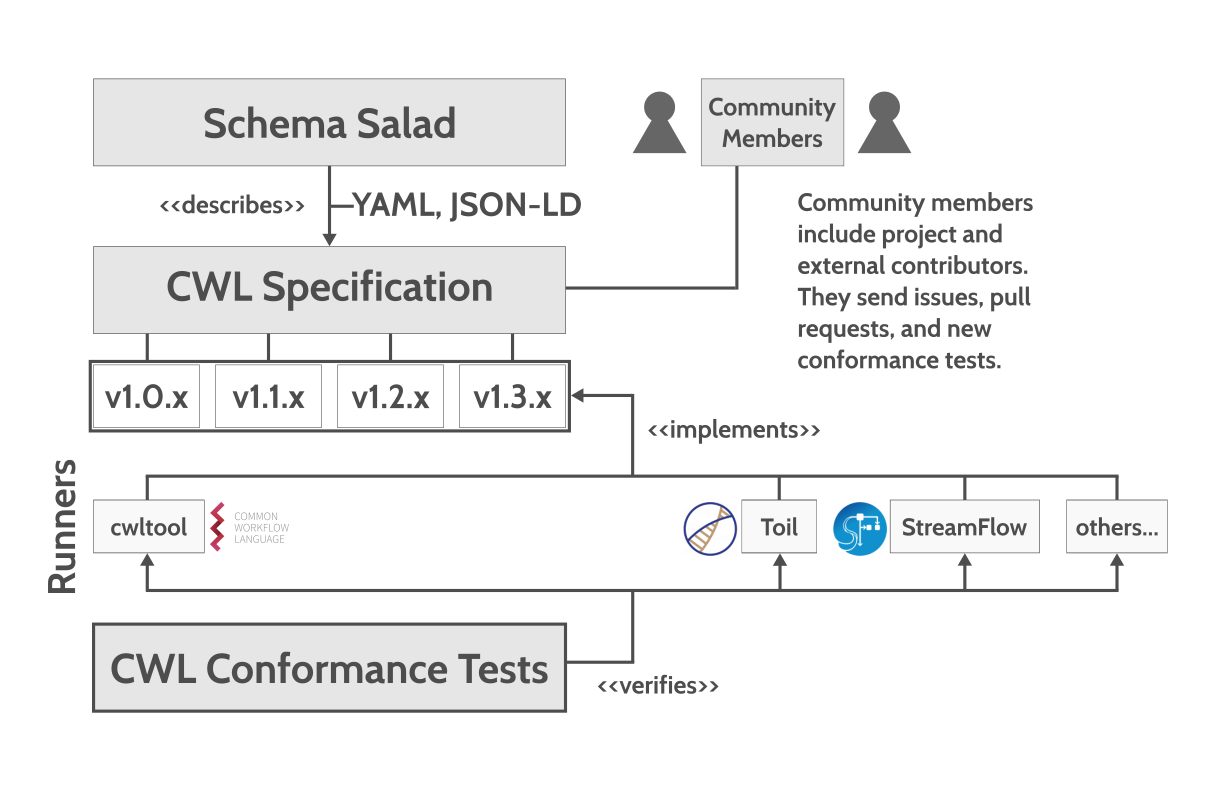
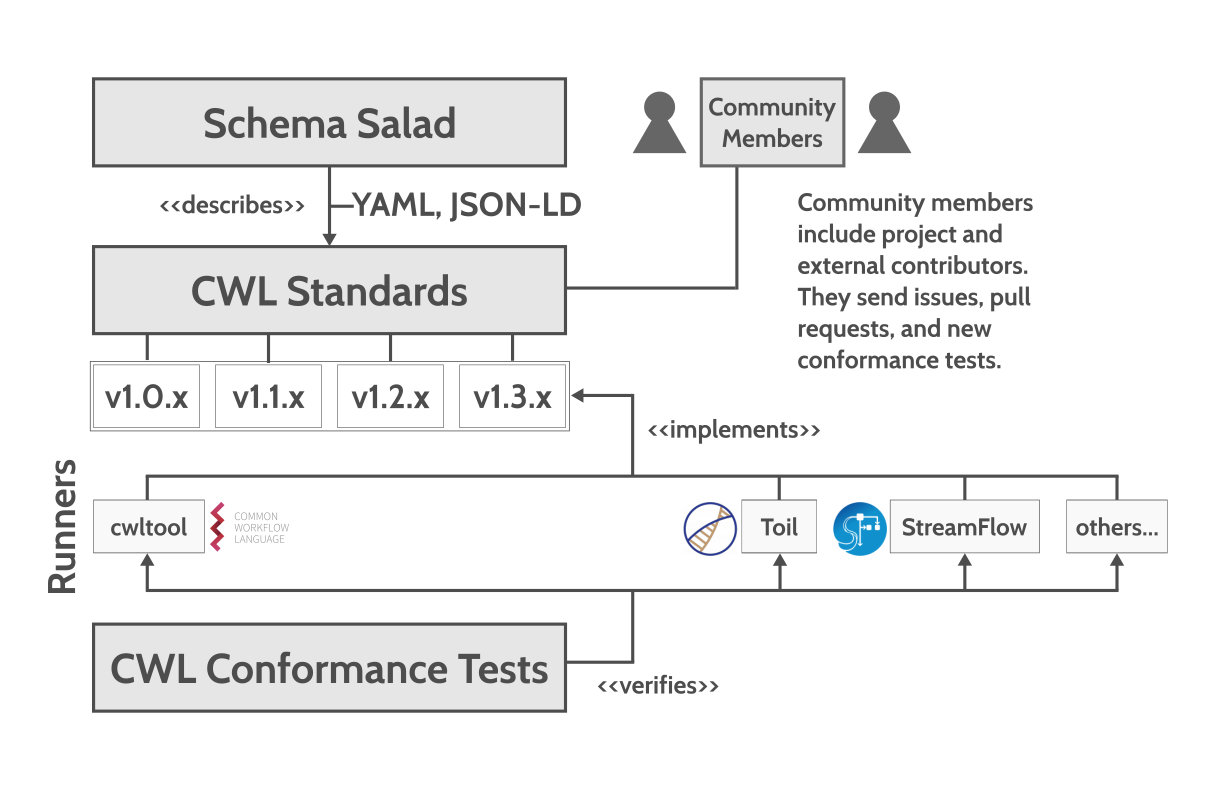
Final Overleaf review done, images updated -- it is now or never

diff --git a/README.md b/README.md
@@ -21,7 +21,7 @@ conformance test results, and supporting artefacts exploring the integration of 
 
 The workflows were developed as part of the master's thesis:
 
-**“CWL Workflows with MPI in Bare-Metal, Containers, Cloud, and HPC Environments”**  
+**“CWL workflows with MPI in bare-metal, containers, cloud, and HPC”**  
 by [Bruno de Paula Kinoshita](https://orcid.org/0000-0001-8250-4074), within the Joint Master in High Performance
 Computing offered by the [University of Santiago de Compostela](https://www.usc.gal/) and
 the [University of A Coruña](https://udc.es/).